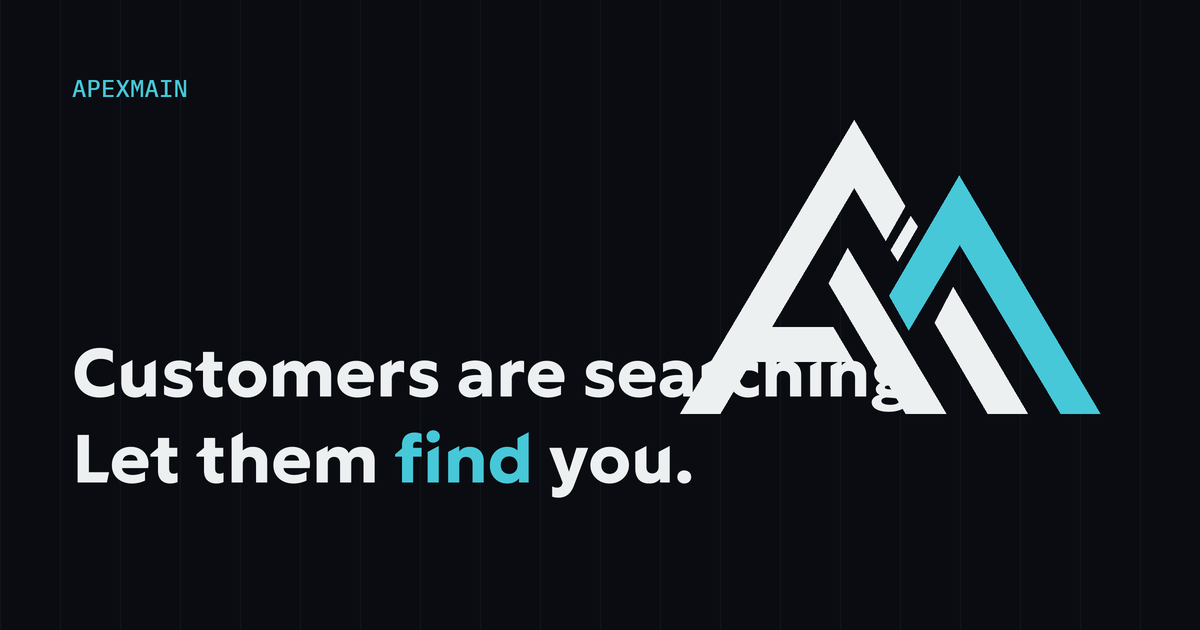
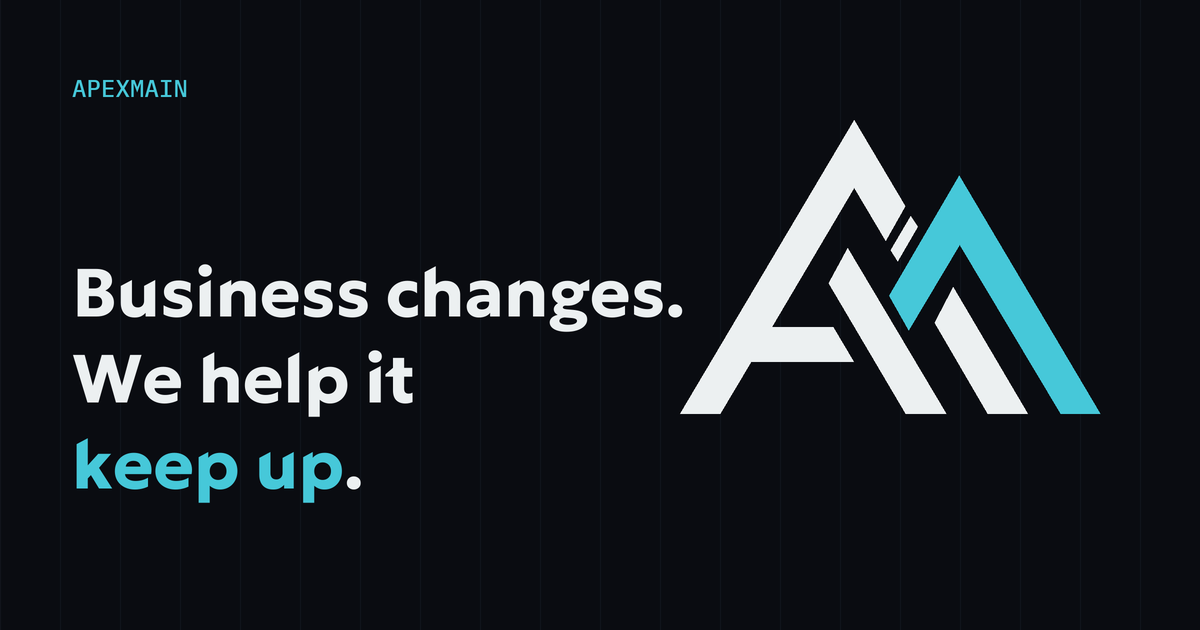
Texts: new hero, "initial audit" instead of the free review, sections 01 and 03
- Hero: translated eyebrow, new headline (three lines on phones, two from 48rem; titleLines with *accent*,
  measured titleFitEm / titleFitEmWide), new subtitle; eyebrow kept on one line on narrow phones
- "Бесплатный разбор" → "Первичный аудит" in every locale (buttons, form title, process step 01,
  services lead, price label, meta, privacy, messenger greeting)
- Section 01: new eyebrow, title, lead; section 03: new title and lead
- Home meta description follows the new subtitle; OG images show the new headline

diff --git a/src/i18n/index.ts b/src/i18n/index.ts
@@ -49,6 +49,14 @@ export function asset(path: string): string {
   return `${base}/${path.replace(/^\//, '')}`;
 }
 
+/** Split "text *accent* text" into parts; the starred part is shown in the accent colour. */
+export function accentParts(text: string): { text: string; accent: boolean }[] {
+  return text
+    .split(/(\*[^*]+\*)/)
+    .filter(Boolean)
+    .map((part) => (part.startsWith('*') ? { text: part.slice(1, -1), accent: true } : { text: part, accent: false }));
+}
+
 /** Replace {placeholders} in a template string. */
 export function fill(template: string, values: Record<string, string | number>): string {
   return template.replace(/\{(\w+)\}/g, (_, key) => String(values[key] ?? `{${key}}`));

diff --git a/src/content.config.ts b/src/content.config.ts
@@ -22,7 +22,7 @@ const services = defineCollection({
     hidden: z.boolean().default(false),
     /** core — shown on the home page; tech — integrations & technical setup (services page only). */
     group: z.enum(['core', 'tech']).default('core'),
-    /** Starting price in tenge; null shows "price after the free audit". */
+    /** Starting price in tenge; null shows "price after the audit". */
     priceFrom: z.number().nullable().default(null),
     video,
     /** Small square loop for the compact home-page card (one big, simple image). */

diff --git a/scripts/make-brand-assets.py b/scripts/make-brand-assets.py
@@ -51,15 +51,15 @@ icon(512, radius_ratio=0).convert("RGB").save(PUBLIC / "icon-512.png")
 icon(192, radius_ratio=0).convert("RGB").save(PUBLIC / "icon-192.png")
 icon(48).save(PUBLIC / "favicon.ico", sizes=[(16, 16), (32, 32), (48, 48)])
 
-# Open Graph 1200x630, one per locale
+# Open Graph 1200x630, one per locale: the hero headline in three lines (as on phones), *accent* in turquoise
 OG = {
-    "ru": ("Клиенты ищут.", "Пусть ", "находят", " вас."),
-    "kk": ("Клиенттер іздейді.", "Сізді ", "тапсын", "."),
-    "en": ("Customers are searching.", "Let them ", "find", " you."),
+    "ru": ("Бизнес меняется.", "Мы помогаем", "ему *успевать*."),
+    "kk": ("Бизнес өзгереді.", "Біз оған *үлгеруге*", "көмектесеміз."),
+    "en": ("Business changes.", "We help it", "*keep up*."),
 }
 display = ROOT / "fonts-src/Geologica.ttf"
 mono = ROOT / "fonts-src/PlexMono-Medium.ttf"
-for loc, (l1, a, accent, b) in OG.items():
+for loc, lines in OG.items():
     ss = 2
     W, H = 1200 * ss, 630 * ss
     img = Image.new("RGB", (W, H), C["ink"])
@@ -75,13 +75,13 @@ for loc, (l1, a, accent, b) in OG.items():
     except OSError:
         pass
     m = ImageFont.truetype(str(mono), 24 * ss)
-    x, y = 72 * ss, 330 * ss
     d.text((72 * ss, 72 * ss), "APEXMAIN", font=m, fill=C["apex"])
-    d.text((x, y), l1, font=f, fill=C["paper"])
-    y += 86 * ss
-    d.text((x, y), a, font=f, fill=C["paper"])
-    x2 = x + d.textlength(a, font=f)
-    d.text((x2, y), accent, font=f, fill=C["apex"])
-    d.text((x2 + d.textlength(accent, font=f), y), b, font=f, fill=C["paper"])
+    y = 250 * ss
+    for line in lines:
+        x = 72 * ss
+        for i, part in enumerate(line.split("*")):
+            d.text((x, y), part, font=f, fill=C["apex"] if i % 2 else C["paper"])
+            x += d.textlength(part, font=f)
+        y += 86 * ss
     img.resize((1200, 630), Image.LANCZOS).save(PUBLIC / f"og-{loc}.png", optimize=True)
 print("ok")
